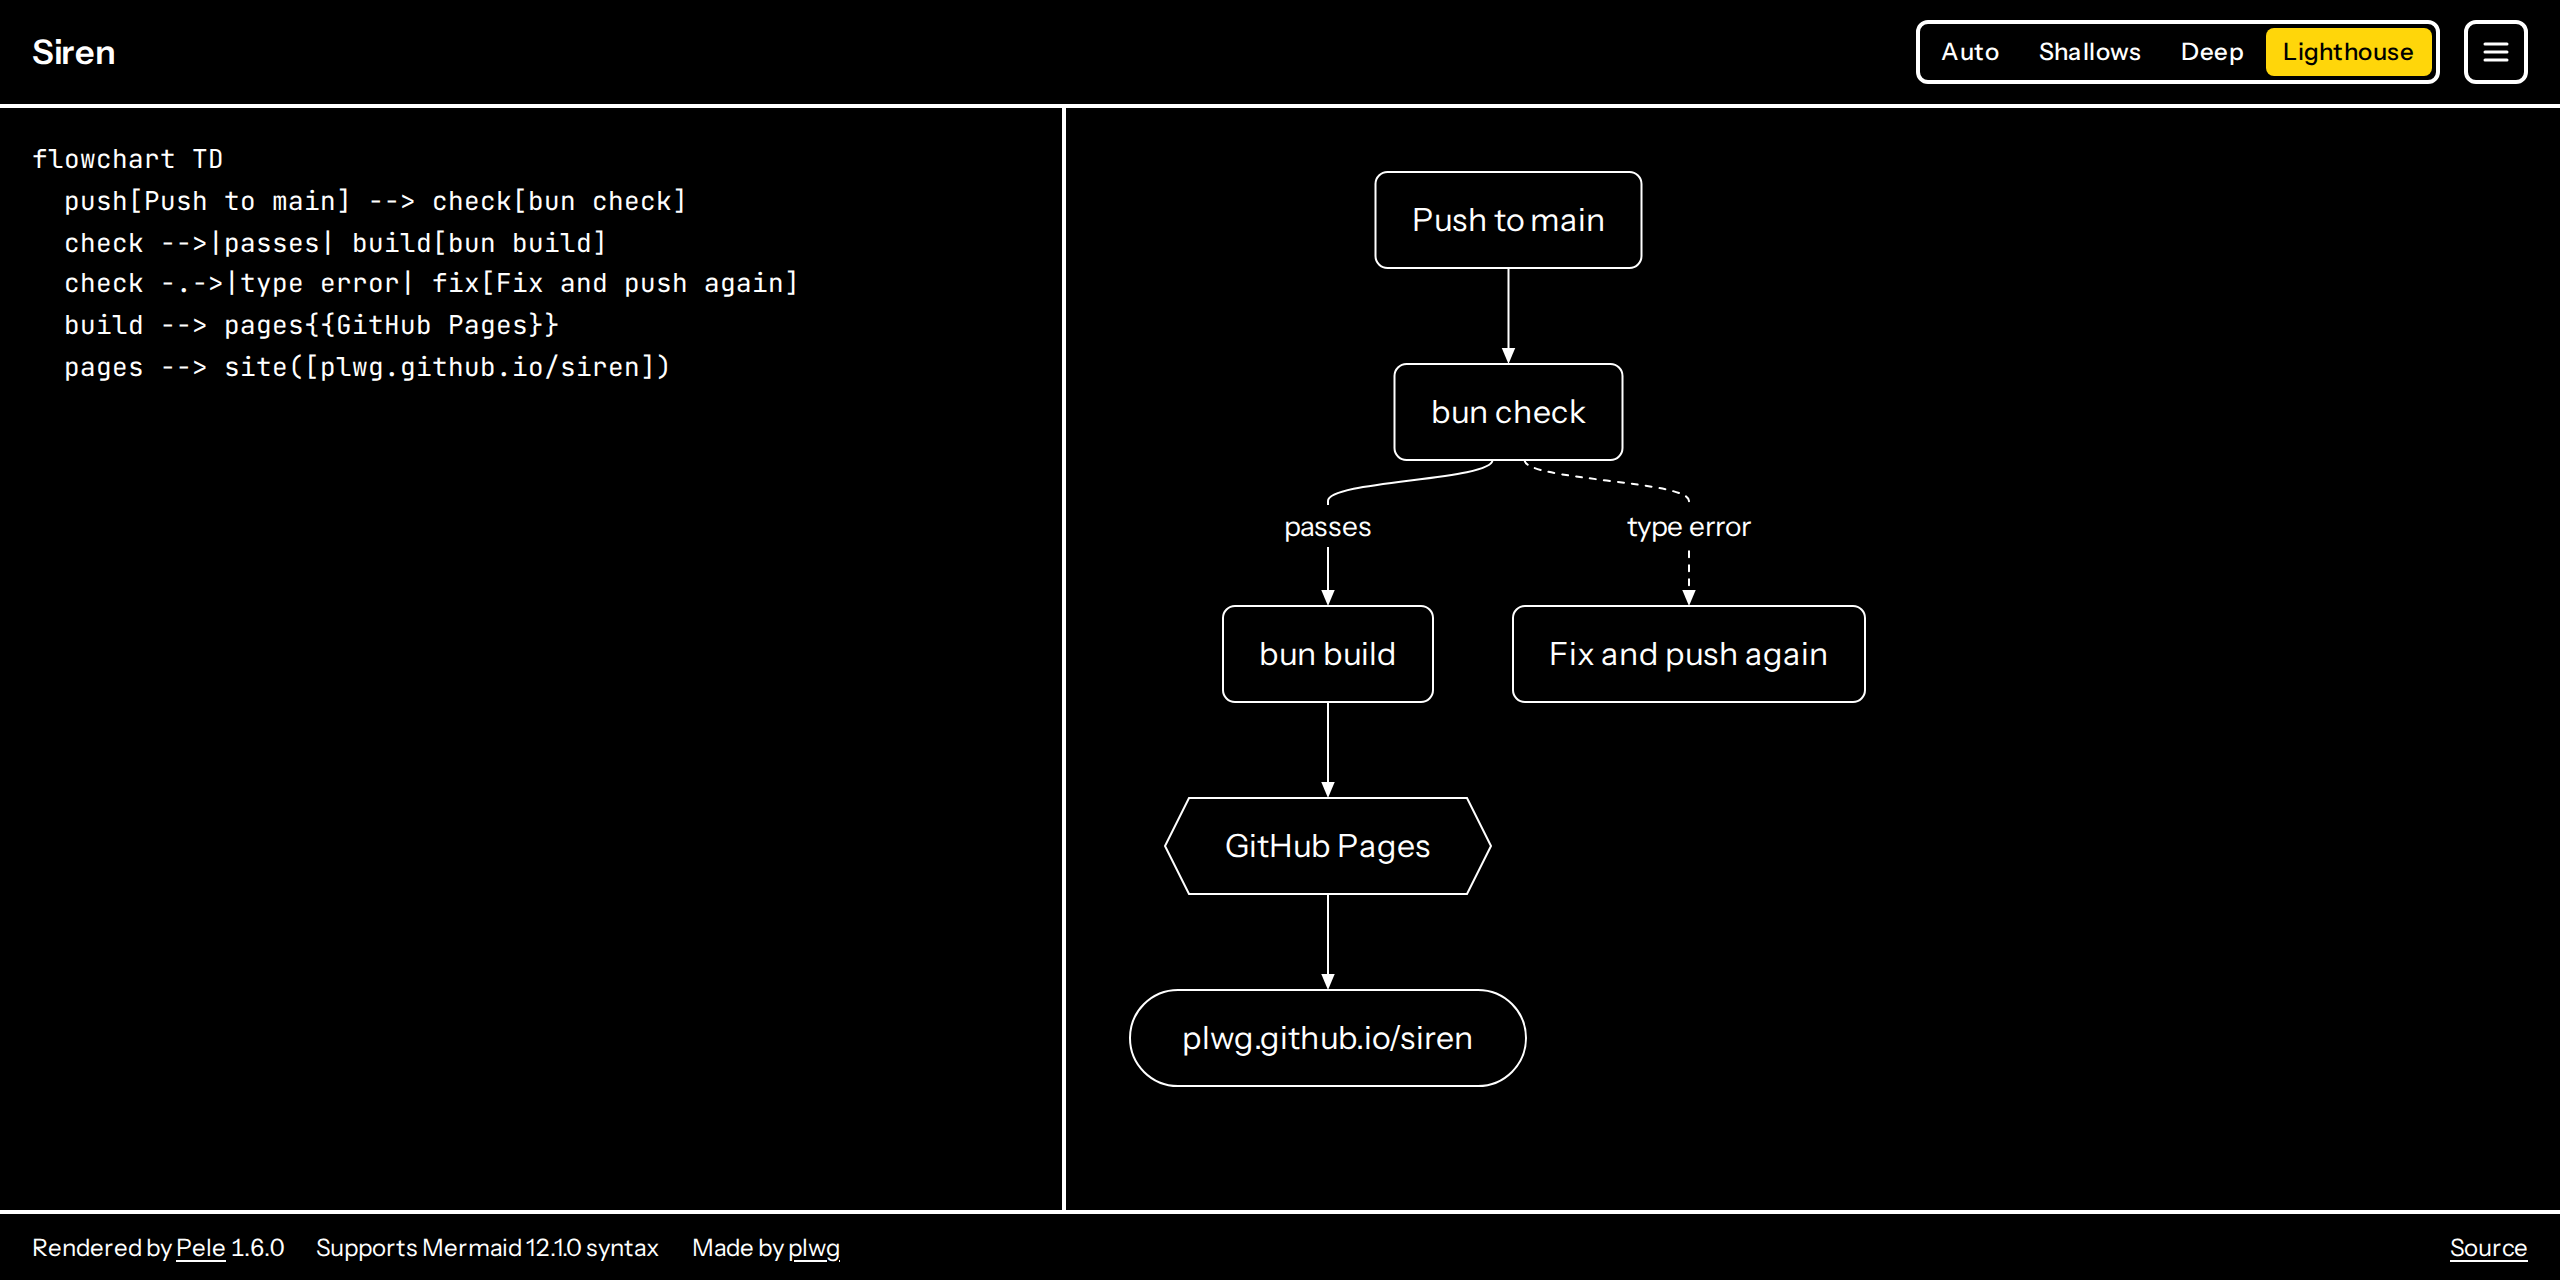
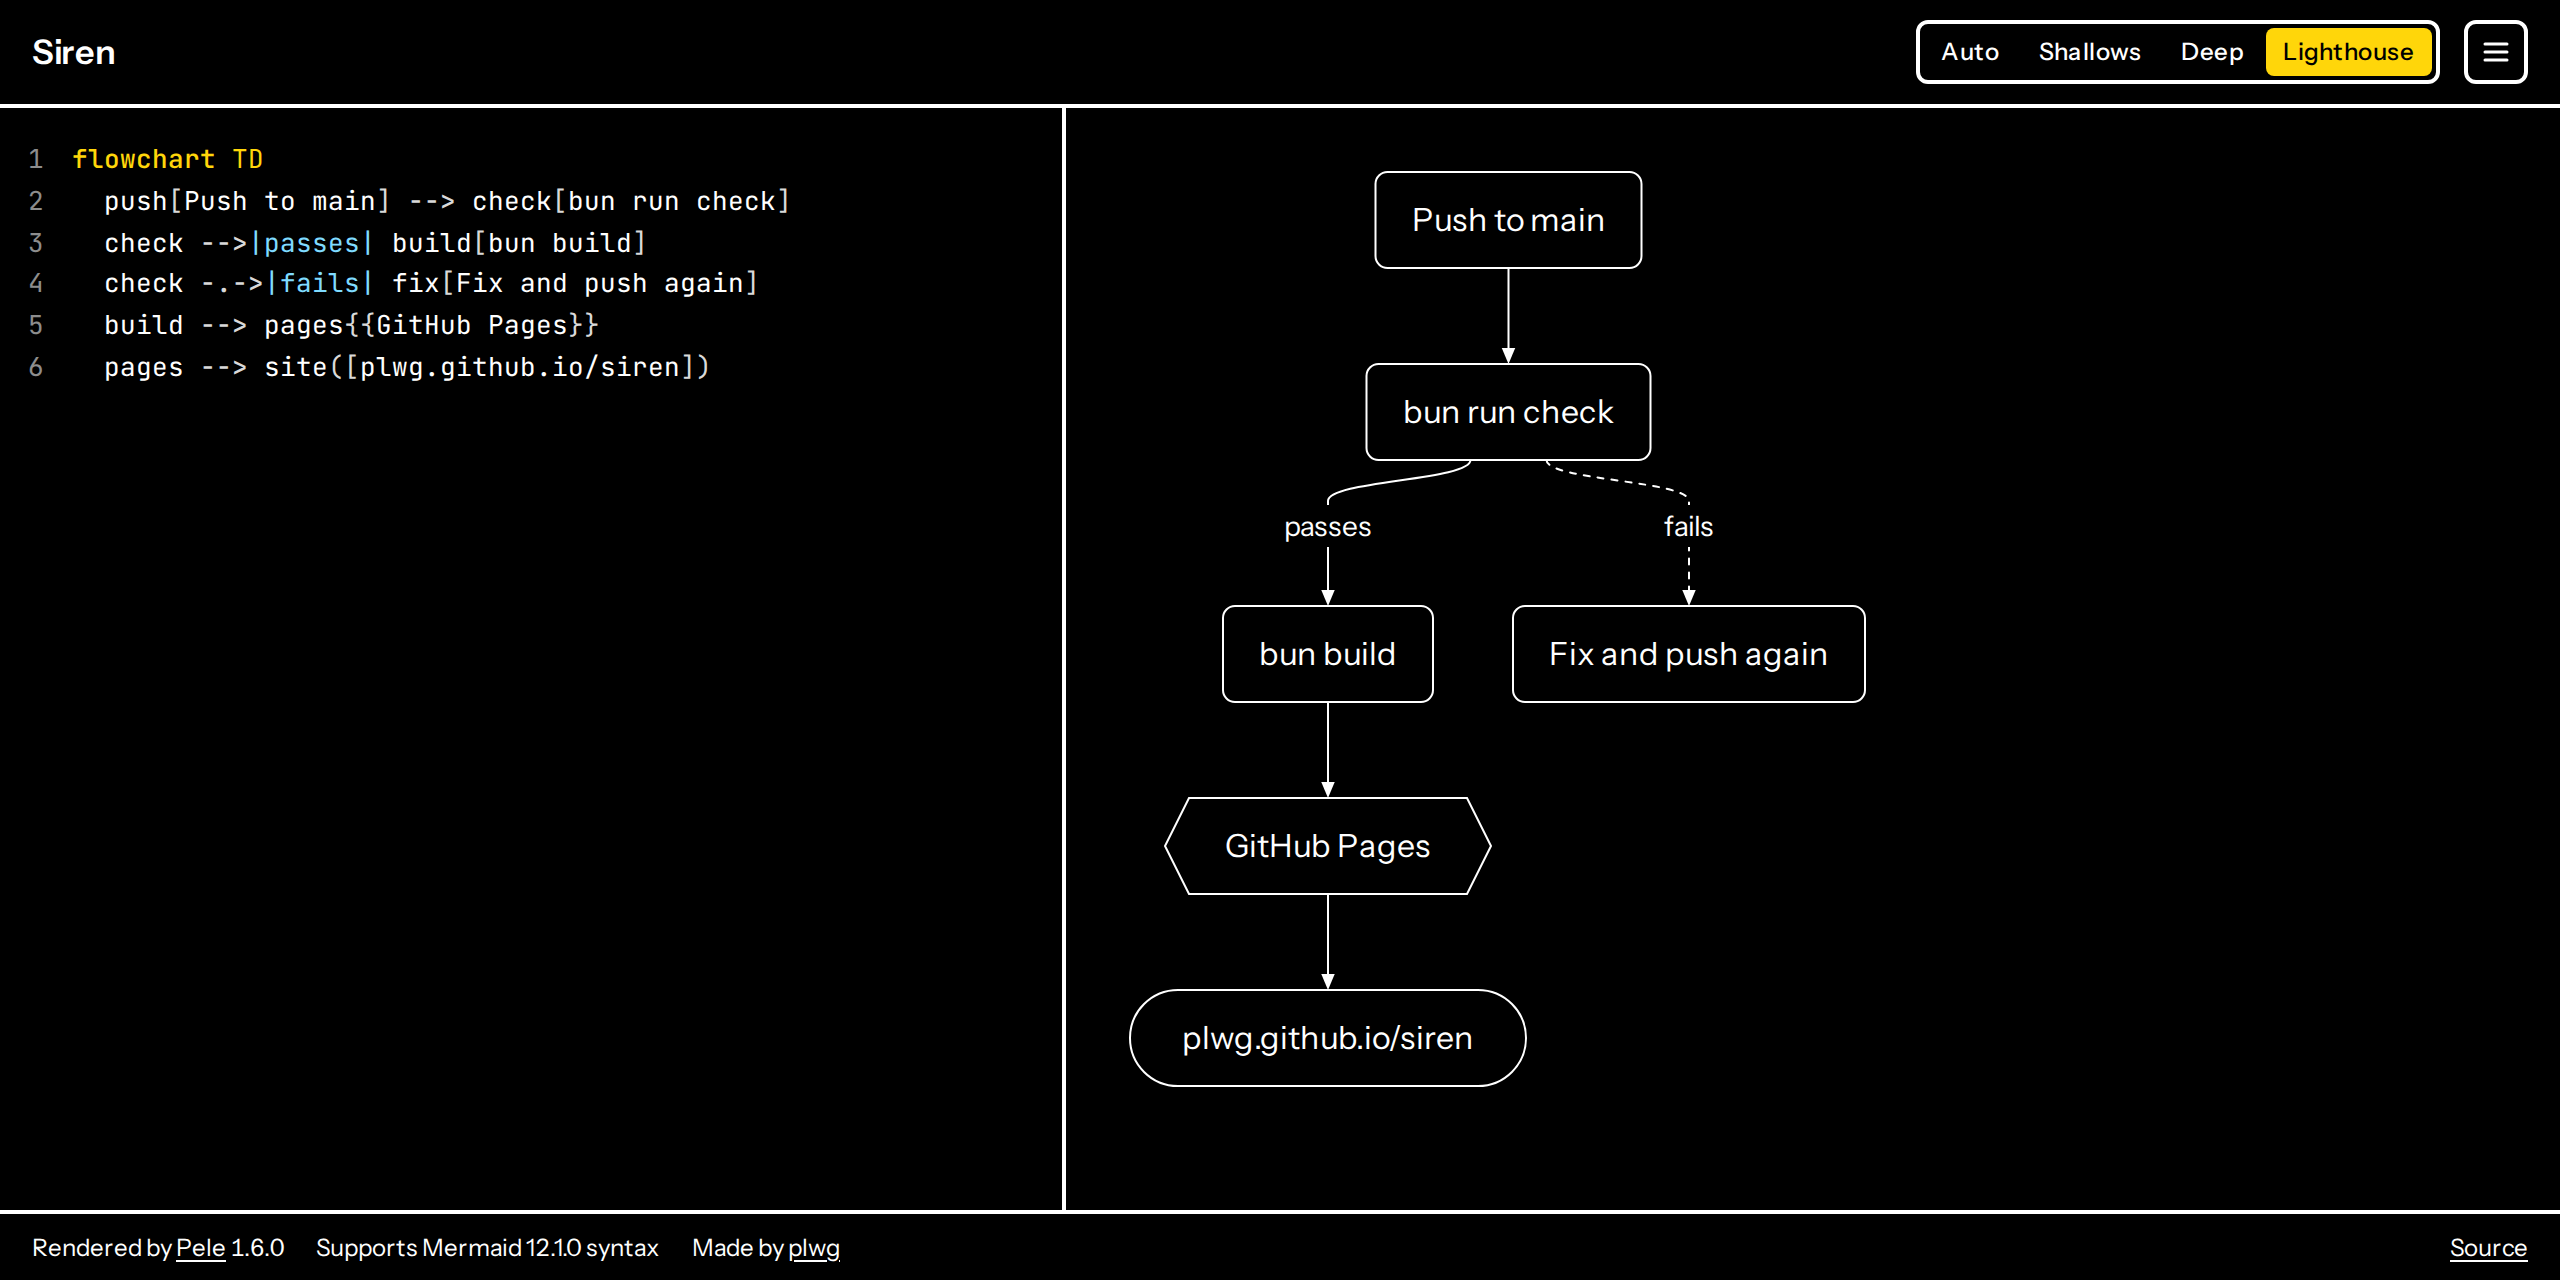
Add a screenshots script and keep label words plain
bun run screenshots builds the site, serves it as GitHub Pages does,
and captures the README images, failing on any page error. The README
screenshots are regenerated with the new editor. Statement keywords
such as "and" or "end" are now highlighted only where they begin a
line, not inside labels.

Changed region(s): [[0.0312, 0.0938, 0.3125, 0.3125], [0.5312, 0.3125, 0.6562, 0.375], [0.625, 0.4062, 0.6875, 0.4375]]

diff --git a/src/highlight.ts b/src/highlight.ts
@@ -2,36 +2,24 @@
 // type, keywords, arrows, quoted text and edge labels, comments) without parsing: unusual syntax
 // is left plain rather than colored wrongly. Output is one block per line, for line numbers.
 
-const KEYWORDS = [
-  // Shared and flowchart
+// Keywords that begin a statement, colored only at the start of a line, so that words like "and"
+// or "end" inside a label stay plain.
+const STATEMENTS = [
   'subgraph',
   'end',
   'click',
-  'href',
-  'call',
-  'callback',
   'style',
   'classDef',
   'class',
   'linkStyle',
   'direction',
-  'TB',
-  'TD',
-  'BT',
-  'RL',
-  'LR',
   'accTitle',
   'accDescr',
   'title',
-  // Sequence
   'participant',
   'actor',
-  'as',
   'note',
   'Note',
-  'over',
-  'left of',
-  'right of',
   'loop',
   'alt',
   'else',
@@ -45,7 +33,6 @@ const KEYWORDS = [
   'deactivate',
   'autonumber',
   'box',
-  // Gantt, timeline, state, git
   'section',
   'dateFormat',
   'axisFormat',
@@ -58,13 +45,19 @@ const KEYWORDS = [
   'merge',
 ];
 
+// Words that only appear within a statement, after its first word.
+const MODIFIERS = ['href', 'call', 'callback', 'over', 'left of', 'right of', 'TB', 'TD', 'BT', 'RL', 'LR'];
+
+const words = (list: string[]): string => list.map((k) => k.replace(' ', '\\s+')).join('|');
+
 const TOKENS = new RegExp(
   [
     '(?<comment>%%.*$)',
     '(?<string>"(?:[^"\\\\]|\\\\.)*"?)',
     '(?<label>\\|[^|\\n]*\\|)',
     '(?<arrow><?(?:-{2,}|={2,}|~{3,}|-\\.+-?|\\.-+)[->xo)]*>?|-+>>?|<<-+)',
-    `(?<keyword>\\b(?:${KEYWORDS.map((k) => k.replace(' ', '\\s+')).join('|')})\\b)`,
+    `(?<statement>(?<=^\\s*)(?:${words(STATEMENTS)})\\b)`,
+    `(?<keyword>\\b(?:${words(MODIFIERS)})\\b)`,
     '(?<punct>[[\\](){}@:;,])',
   ].join('|'),
   'g',
@@ -72,7 +65,9 @@ const TOKENS = new RegExp(
 
 const escapeHtml = (text: string): string => text.replace(/&/g, '&amp;').replace(/</g, '&lt;').replace(/>/g, '&gt;');
 
-const span = (kind: string, text: string): string => `<span class="tok-${kind}">${escapeHtml(text)}</span>`;
+// A statement keyword is a keyword that happened to start its line.
+const span = (kind: string, text: string): string =>
+  `<span class="tok-${kind === 'statement' ? 'keyword' : kind}">${escapeHtml(text)}</span>`;
 
 function highlightLine(line: string): string {
   let out = '';

diff --git a/scripts/screenshots.ts b/scripts/screenshots.ts
@@ -1,0 +1,56 @@
+// Regenerates the README screenshots from the built site: `bun run screenshots`.
+// Needs Chromium for Playwright once: `bunx playwright-core install chromium`.
+
+import { chromium } from 'playwright-core';
+import { encodeDiagram } from '../src/hash';
+
+const OUT = 'docs/screenshots';
+
+// Siren's own deploy pipeline, top to bottom so it fills the diagram pane at a readable size.
+const DIAGRAM = `flowchart TD
+  push[Push to main] --> check[bun run check]
+  check -->|passes| build[bun build]
+  check -.->|fails| fix[Fix and push again]
+  build --> pages{{GitHub Pages}}
+  pages --> site([plwg.github.io/siren])`;
+
+const SHOTS = [
+  { name: 'desktop-light', theme: 'light' },
+  { name: 'desktop-dark', theme: 'dark' },
+  { name: 'desktop-contrast', theme: 'contrast' },
+];
+
+const server = Bun.serve({
+  port: 0,
+  fetch(req) {
+    const path = new URL(req.url).pathname.replace(/^\/siren\/?$/, '/siren/index.html');
+    if (!path.startsWith('/siren/')) return new Response('Not found', { status: 404 });
+    return new Response(Bun.file(`dist/${path.slice('/siren/'.length)}`));
+  },
+});
+
+const browser = await chromium.launch();
+const errors: string[] = [];
+try {
+  for (const { name, theme } of SHOTS) {
+    const context = await browser.newContext({ viewport: { width: 1280, height: 640 }, deviceScaleFactor: 2 });
+    await context.addInitScript((t) => localStorage.setItem('siren-theme', t), theme);
+    const page = await context.newPage();
+    page.on('pageerror', (error) => errors.push(`${name}: ${error.message}`));
+    await page.goto(`http://localhost:${server.port}/siren/#${encodeDiagram(DIAGRAM)}`);
+    await page.evaluate(() => document.fonts.ready);
+    await page.locator('#diagram svg').waitFor();
+    await page.waitForTimeout(300);
+    await page.screenshot({ path: `${OUT}/${name}.png` });
+    await context.close();
+    console.log(`${OUT}/${name}.png`);
+  }
+} finally {
+  await browser.close();
+  server.stop();
+}
+
+if (errors.length) {
+  console.error(errors.join('\n'));
+  process.exit(1);
+}

diff --git a/tests/highlight.test.ts b/tests/highlight.test.ts
@@ -26,6 +26,13 @@ describe('highlight', () => {
     expect(tokens(html, 'keyword')).toEqual(expect.arrayContaining(['LR', 'click', 'href']));
   });
 
+  test('keywords inside labels stay plain', () => {
+    const flow = highlight('flowchart TD\n  fix[Fix and push again] --> done[The end]');
+    expect(tokens(flow, 'keyword')).toEqual(['TD']);
+    const seq = highlight('sequenceDiagram\n  par Alice to Bob\n    A->>B: loop and end\n  and Alice to Carol\n  end');
+    expect(tokens(seq, 'keyword')).toEqual(['par', 'and', 'end']);
+  });
+
   test('sequence arrows', () => {
     expect(tokens(highlight('sequenceDiagram\n  A->>B: hi\n  B-->>A: ok'), 'arrow')).toEqual(['->>', '-->>']);
   });

diff --git a/README.md b/README.md
@@ -53,6 +53,7 @@ bun run typecheck
 bun run lint       # Biome: lint and formatting check
 bun run format     # Biome: fix formatting and import order
 bun run check      # lint, typecheck, test and build: run before committing
+bun run screenshots  # rebuild the README screenshots (first: bunx playwright-core install chromium)
 bun run build      # outputs to dist/
 ```
 
